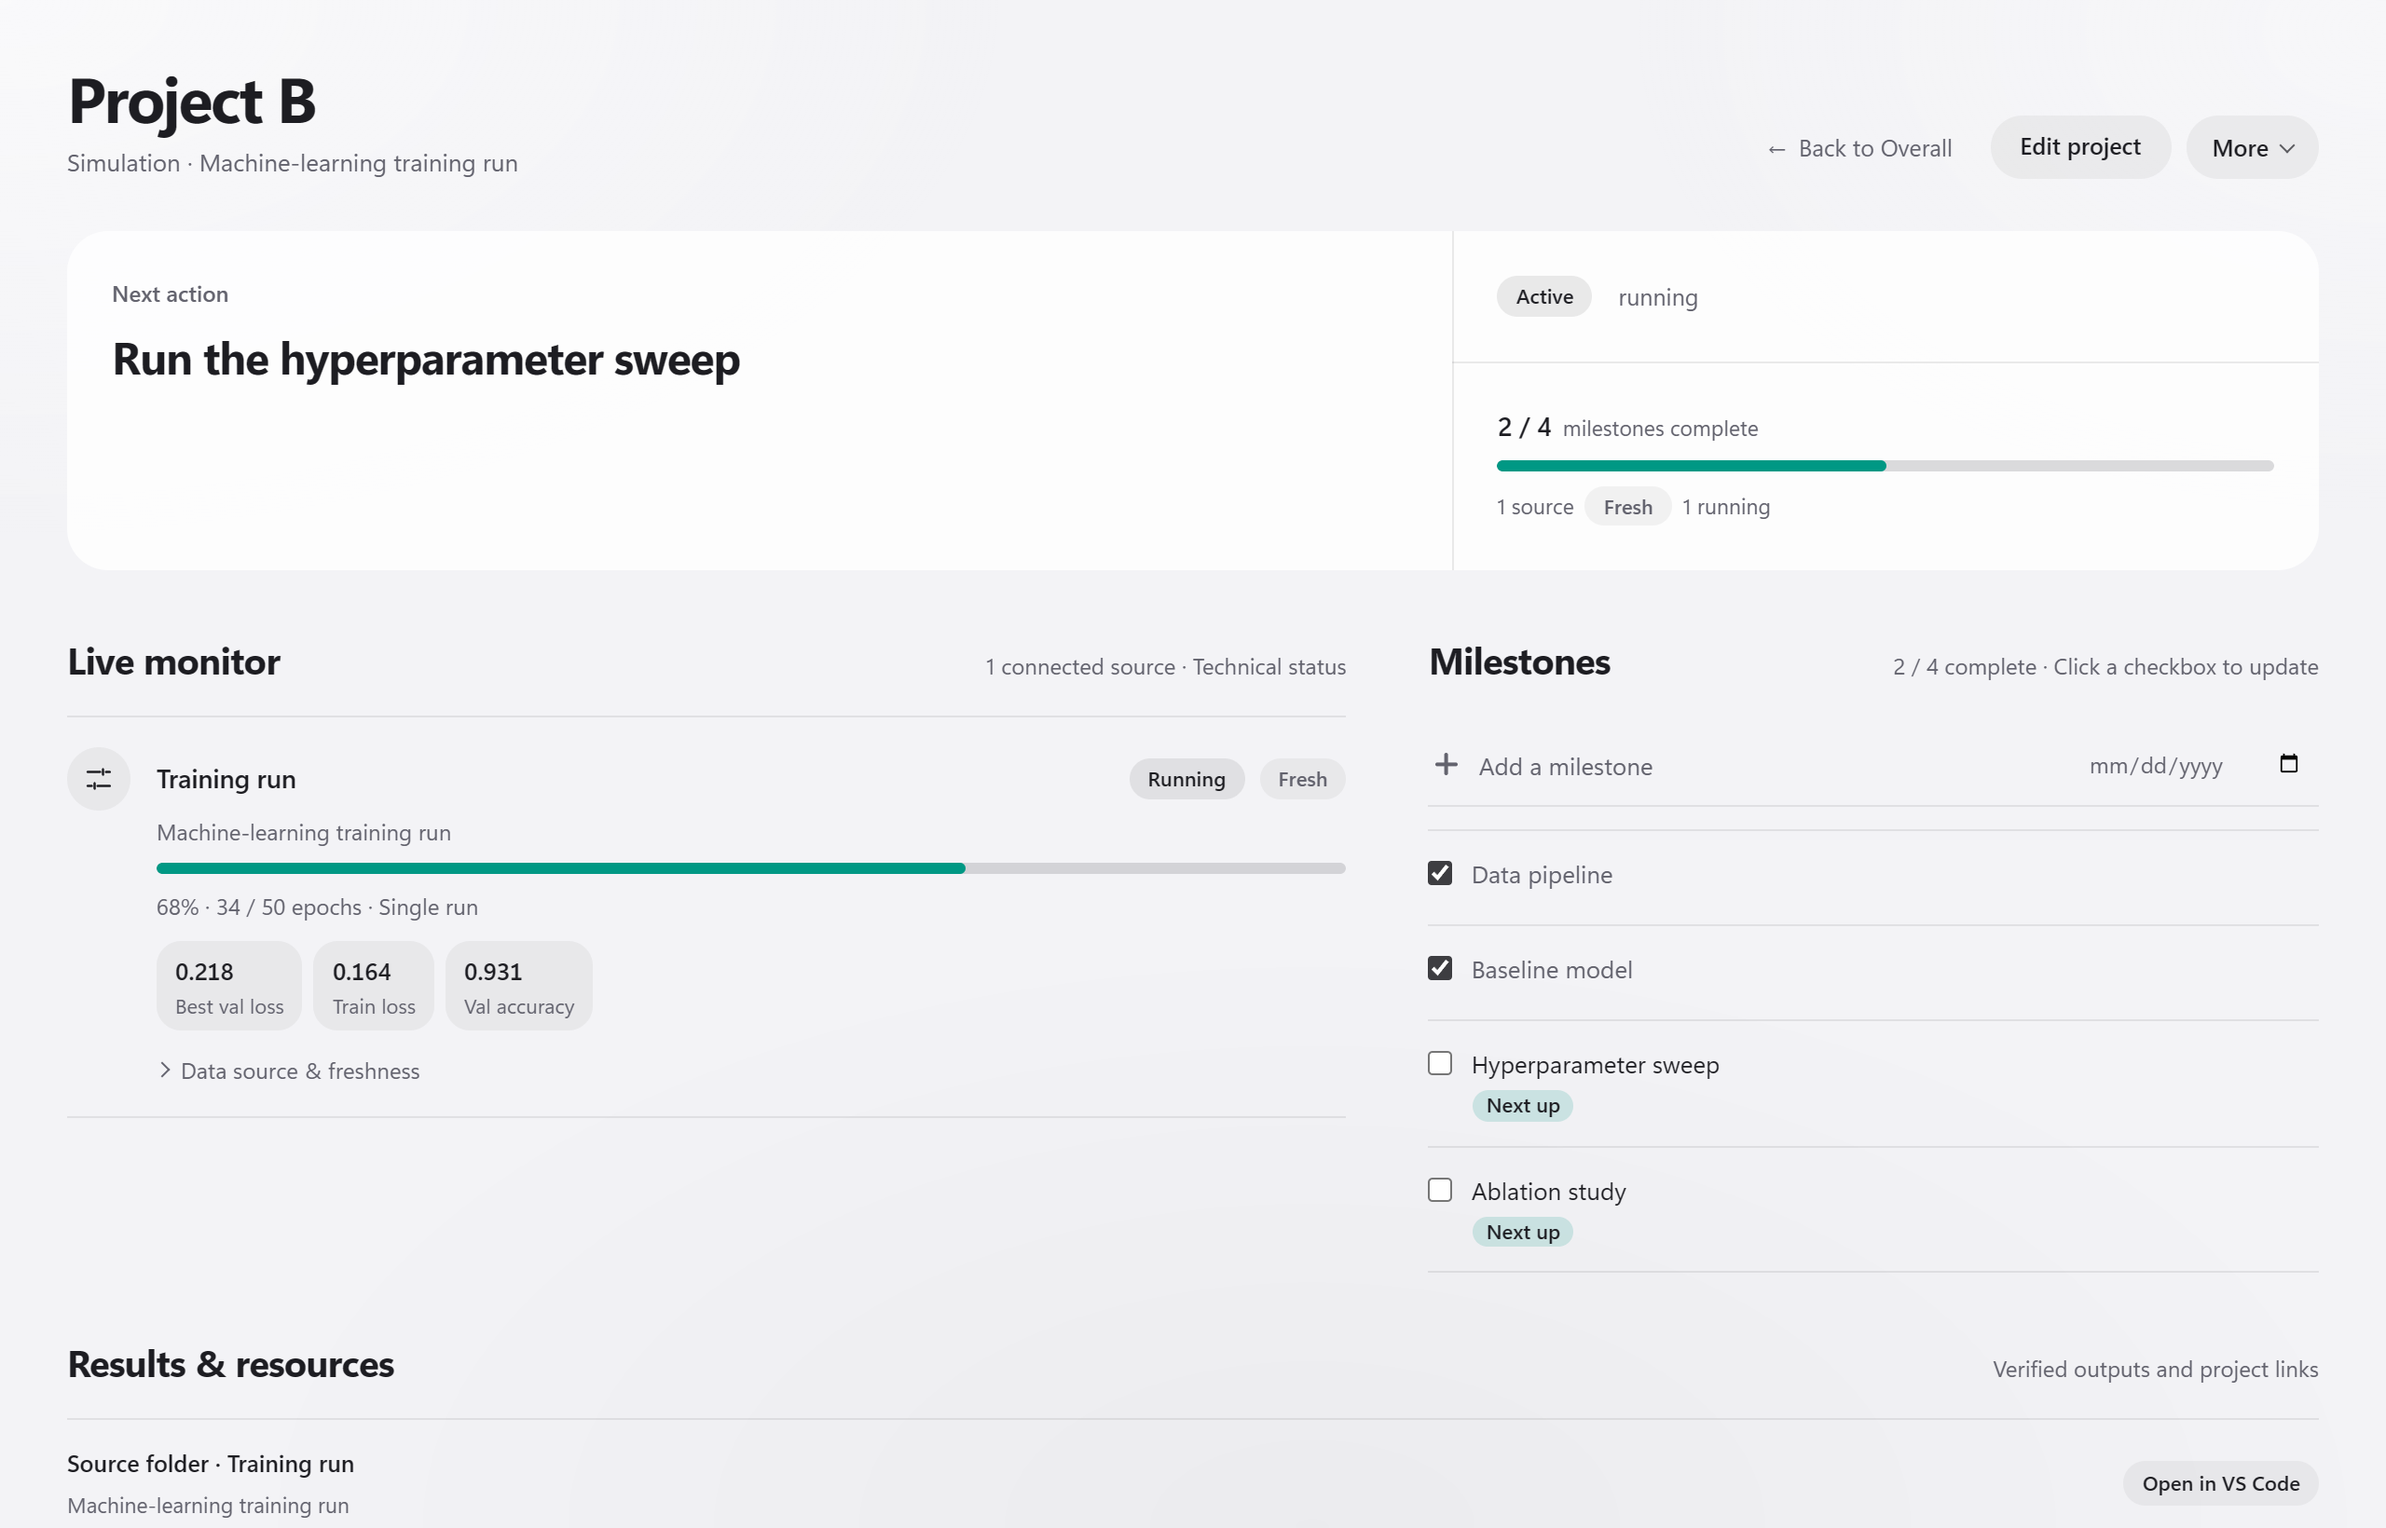
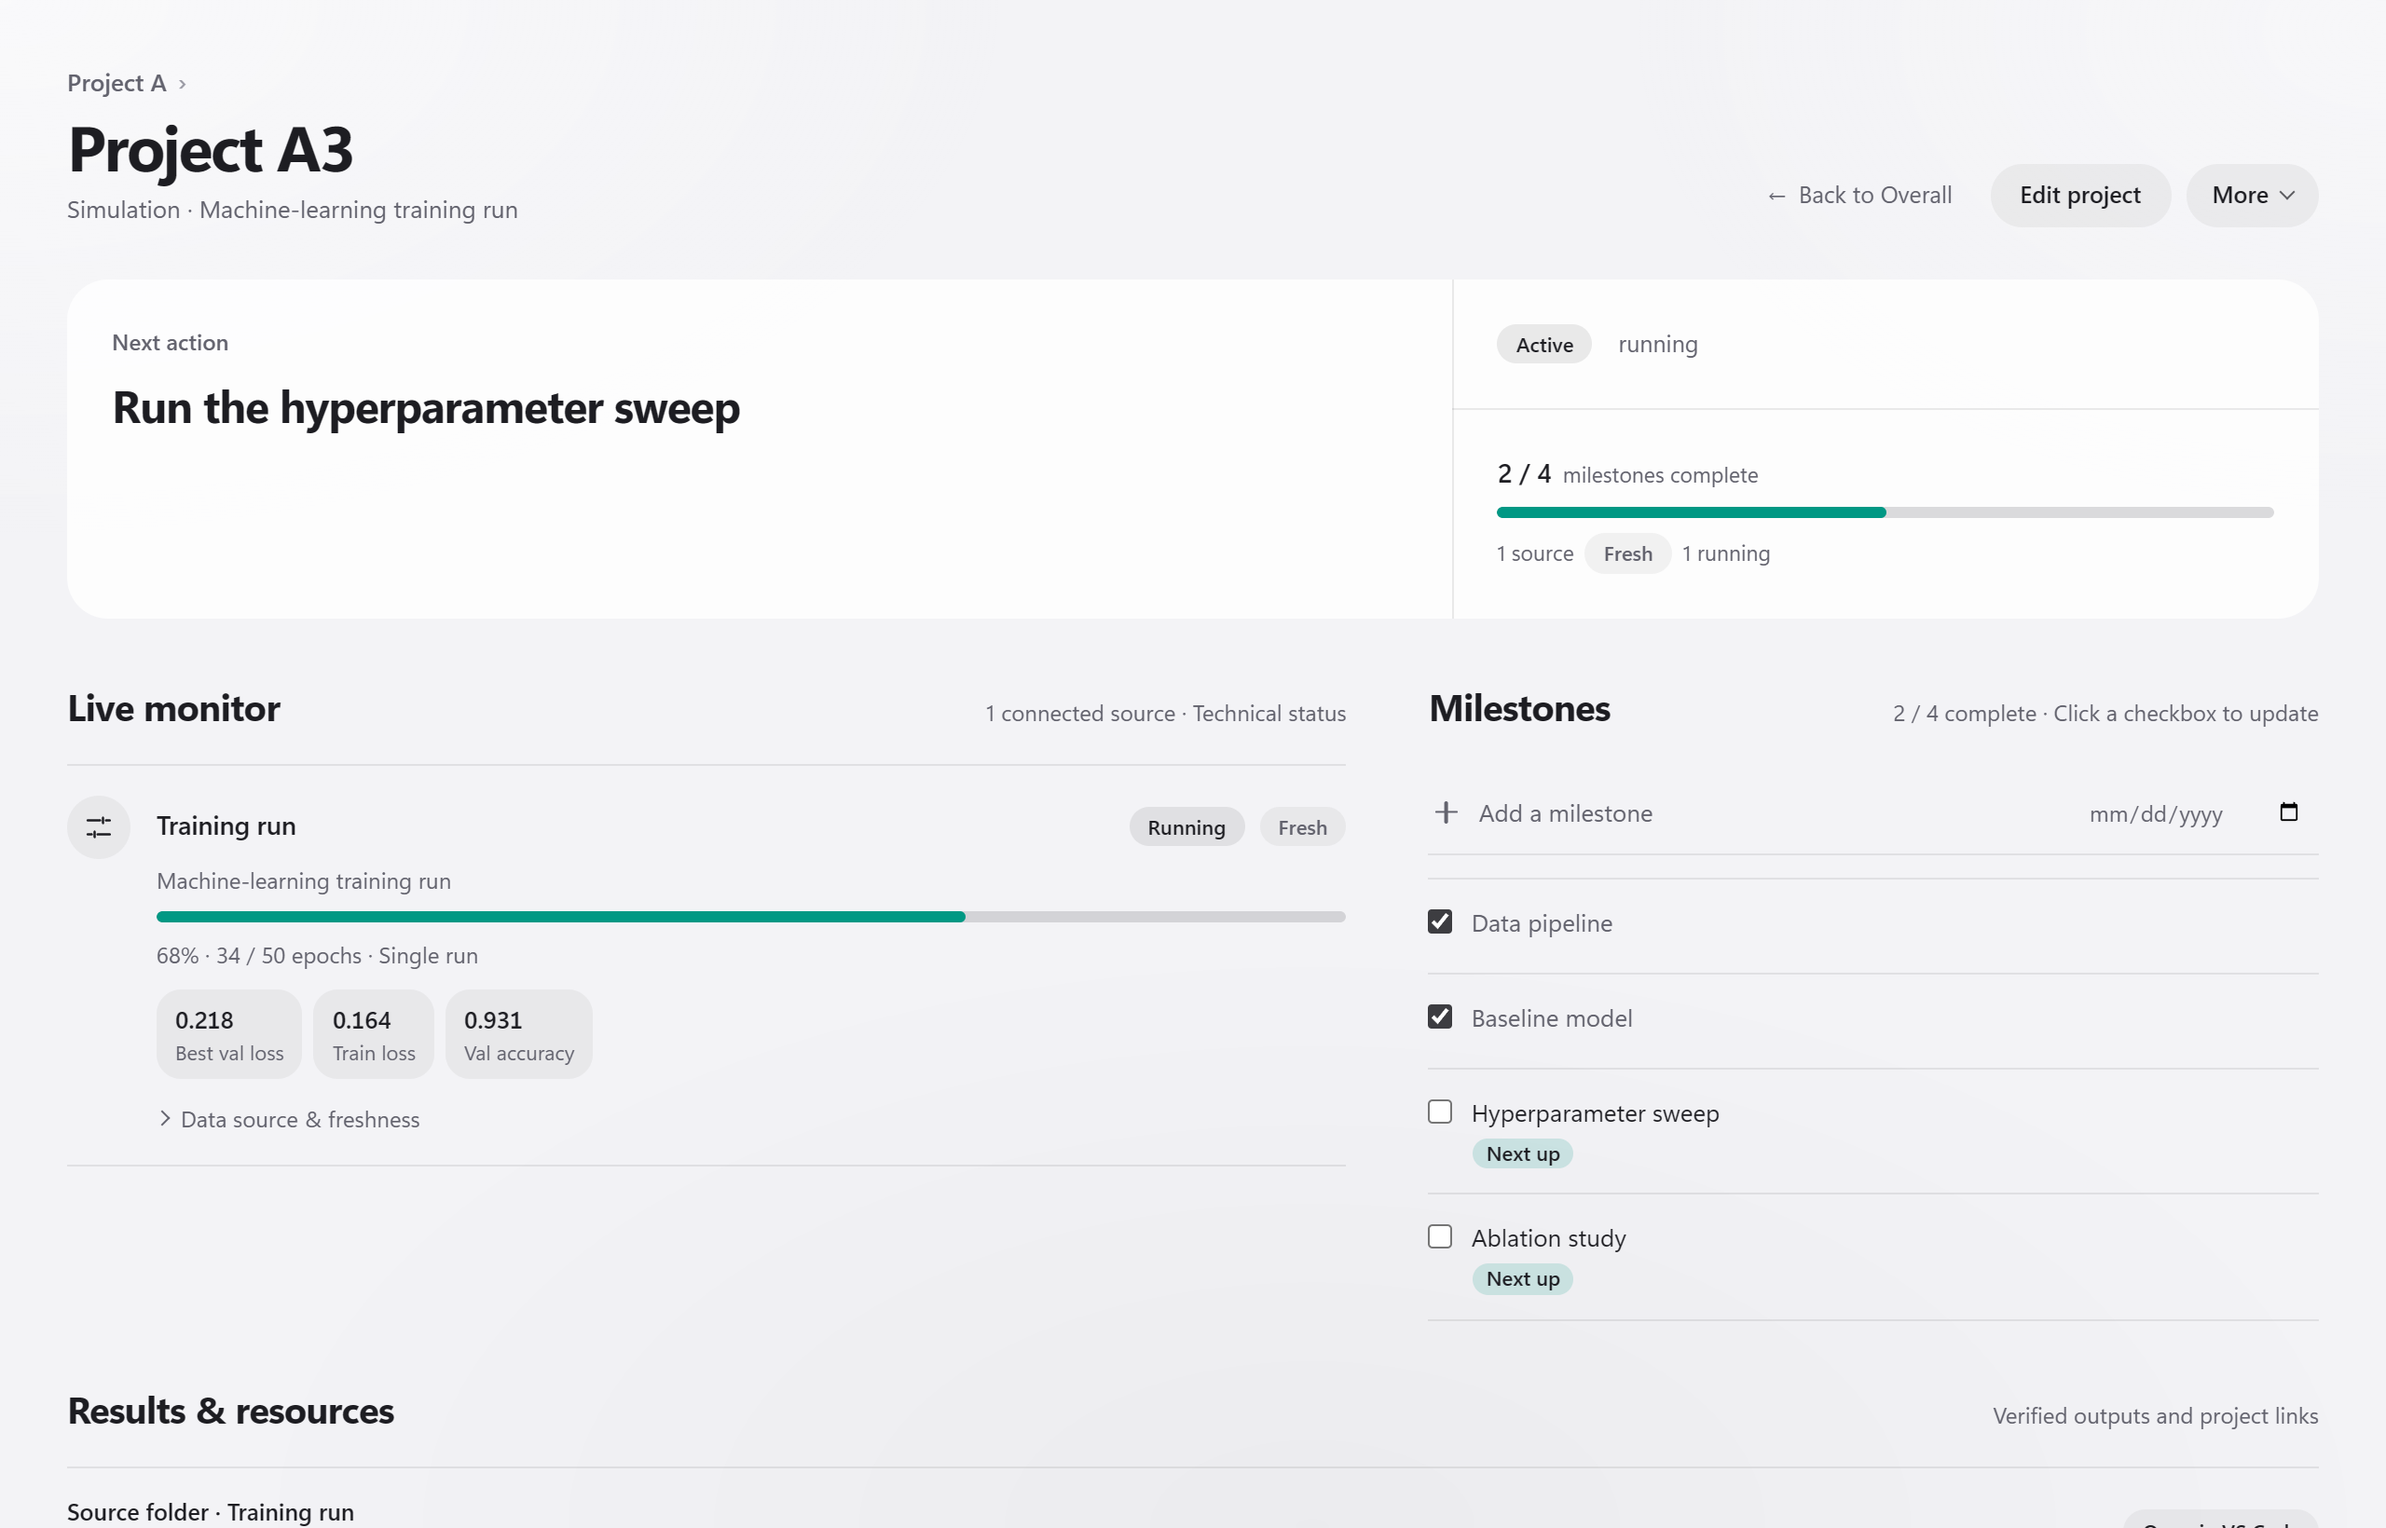
README: projects within projects
- New section: a top-level project holds sub-projects of any type (LaTeX, Word, training run, simulation, custom type, milestones only), with the project list and a parent's page
- Demo reorganised into two families (Project A: four source types; Project B: custom type and milestones-only); all screenshots and GIFs regenerated

diff --git a/dev/demo.ts b/dev/demo.ts
@@ -59,13 +59,17 @@ const snapshot = (): WorkspaceSnapshot => ({
       milestones: paperMilestones, recordError: null, milestonesError: null },
     { id: "a-report", record: record("a-report", "Project A2", "paper", "project-a", { sourceIds: ["a-report-docx"], nextStep: "Finish the first draft" }),
       milestones: `# Milestones\n\n- [x] Outline #milestone\n- [ ] First draft [due:: ${day(9)}] #milestone\n- [ ] Supervisor comments addressed #milestone\n`, recordError: null, milestonesError: null },
-    { id: "project-b", record: record("project-b", "Project B", "simulation", null, { sourceIds: ["b-training"], stage: "running", nextStep: "Run the hyperparameter sweep" }),
+    { id: "project-b", record: record("project-b", "Project A3", "simulation", "project-a", { sourceIds: ["b-training"], stage: "running", nextStep: "Run the hyperparameter sweep" }),
       milestones: "# Milestones\n\n- [x] Data pipeline #milestone\n- [x] Baseline model #milestone\n- [ ] Hyperparameter sweep #milestone\n- [ ] Ablation study #milestone\n", recordError: null, milestonesError: null },
-    { id: "project-c", record: record("project-c", "Project C", "simulation", null, { sourceIds: ["c-batch"], stage: "running", nextStep: "Wait for the remaining cases" }),
+    { id: "project-c", record: record("project-c", "Project A4", "simulation", "project-a", { sourceIds: ["c-batch"], stage: "running", nextStep: "Wait for the remaining cases" }),
       milestones: "# Milestones\n\n- [x] Mesh convergence #milestone\n- [ ] All planned cases finished #milestone\n- [ ] Figures produced #milestone\n", recordError: null, milestonesError: null },
-    { id: "project-e", record: record("project-e", "Project E", "experiment", null, { sourceIds: ["e-rig"], stage: "testing", nextStep: "Test specimen 6" }),
+    { id: "campaign", record: record("campaign", "Project B", "experiment", null, { stage: "testing", nextStep: "Finish specimens 5-8" }),
+      milestones: `# Milestones\n\n- [x] Test matrix agreed #milestone\n- [ ] Interim report [due:: ${day(12)}] #milestone\n`, recordError: null, milestonesError: null },
+    { id: "b-prep", record: record("b-prep", "Project B2", "experiment", "campaign", { stage: "preparation", nextStep: "Machine the last two specimens" }),
+      milestones: "# Milestones\n\n- [x] Material ordered #milestone\n- [x] Specimens 1-6 machined #milestone\n- [ ] Specimens 7-8 machined #milestone\n", recordError: null, milestonesError: null },
+    { id: "project-e", record: record("project-e", "Project B1", "experiment", "campaign", { sourceIds: ["e-rig"], stage: "testing", nextStep: "Test specimen 6" }),
       milestones: "# Milestones\n\n- [x] Rig calibrated #milestone\n- [x] Specimens 1-4 tested #milestone\n- [ ] Specimens 5-8 tested #milestone\n- [ ] S-N curve fitted #milestone\n", recordError: null, milestonesError: null },
-    { id: "project-d", record: record("project-d", "Project D", "experiment", null, { health: "completed", nextStep: "Archived" }),
+    { id: "project-d", record: record("project-d", "Project C", "experiment", null, { health: "completed", nextStep: "Archived" }),
       milestones: "# Milestones\n\n- [x] Test plan #milestone\n- [x] Specimens tested #milestone\n- [x] Data archived #milestone\n", recordError: null, milestonesError: null },
   ],
   sources: [

diff --git a/README.md b/README.md
@@ -12,6 +12,23 @@ an ordinary folder of JSON and Markdown files.
 
 ![Overview](docs/screenshots/overall.png)
 
+## Projects within projects
+
+Group work the way it actually happens. A top-level project (a thesis, a grant, a test campaign) holds sub-projects,
+and **each sub-project can be any kind of work**: a LaTeX paper next to a Word report, a training run, a simulation
+batch, a custom-type experiment, or just a list of milestones with no folder at all. The parent's progress counts its
+own milestones and every sub-project's, so the thesis ring moves when any paper or run moves.
+
+<p>
+  <img src="docs/screenshots/family.png" alt="The project list: Project A with a LaTeX paper, a Word report, a training run and a simulation; Project B with a custom-type experiment and a milestones-only sub-project" width="40%">
+  &nbsp;
+  <img src="docs/screenshots/parent.png" alt="A parent project's page: progress across its four sub-projects of different types" width="56%">
+</p>
+
+Drop a folder on a project's page to add it as a sub-project, drag a row onto a project to file it there, or give a
+project a discovery folder and new subfolders are suggested as sub-projects. The widget can focus one project and
+show its sub-projects as columns. (One level deep: a sub-project does not have sub-projects of its own.)
+
 ## A widget that stays out of the way
 
 The floating widget keeps projects, today's writing and Next up on screen. Sections grow under the pointer like the
@@ -104,8 +121,8 @@ needed. For Smart monitoring, have one of the supported agents installed (the fi
 
 ## Ask your agent
 
-Settings → Agent → **Use Monitoring Anything from your agent** installs a skill for Claude Code and Codex. Then just
-ask in a chat:
+On first start the app installs a skill for the agents it finds (Claude Code, Codex); remove or reinstall it under
+Settings → Agent. Then just ask in a chat:
 
 | You ask | The agent |
 | --- | --- |

diff --git a/CHANGELOG.md b/CHANGELOG.md
@@ -3,6 +3,13 @@
 All notable changes to this project are documented here. The format follows
 [Keep a Changelog](https://keepachangelog.com/en/1.1.0/) and the project uses [Semantic Versioning](https://semver.org/).
 
+## [Unreleased]
+
+### Changed
+- First start installs the agent skill for the agents found (Claude Code, Codex) that have none yet; the guide says so
+  and Remove undoes it. A skill set up elsewhere is still left alone.
+- README: projects within projects (sub-projects of any type), with the demo reorganised into two families.
+
 ## [0.2.0] - 2026-10-16
 
 ### Changed
